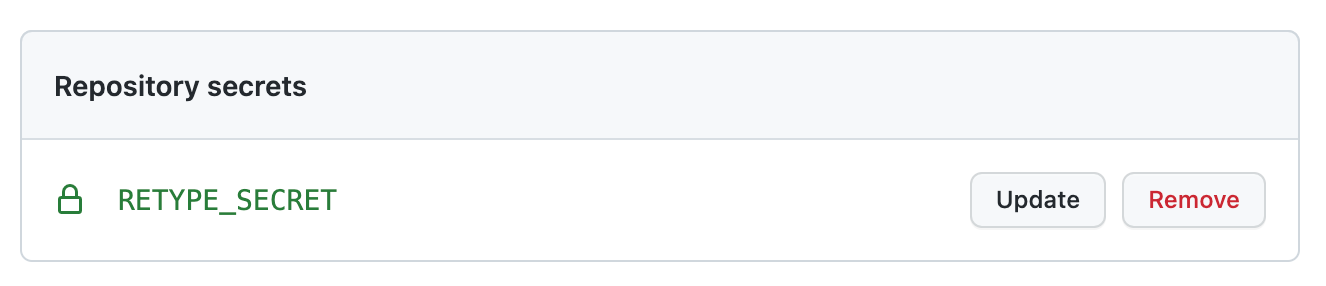
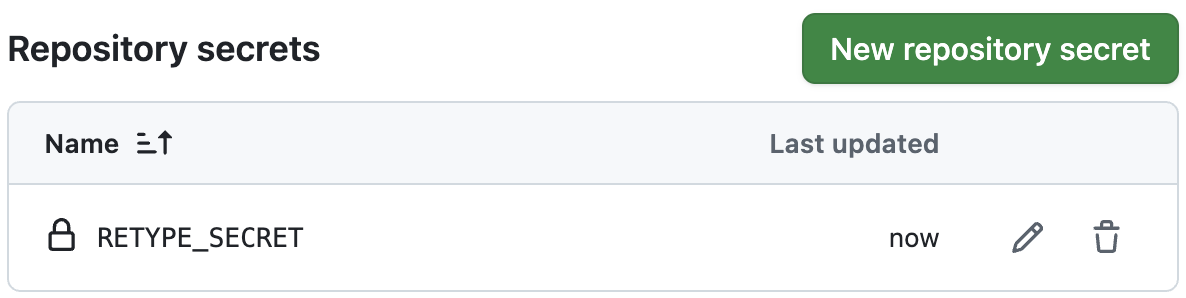
Improved docs for ENV variables
New documentation for RETYPE_PASSWORD and RETYPE_SECRET when passing as an Environment variable.

Changed region(s): [[0.0, 0.2517, 0.9983, 0.9231], [0.0, 0.028, 0.9983, 0.3077], [0.0, 0.951, 0.9983, 0.979]]

diff --git a/guides/github-actions.md b/guides/github-actions.md
@@ -88,17 +88,17 @@ Commit your **retype-action.yml** file and push to your repo.
 
 ### RETYPE_SECRET
 
-If your project requires a Retype License Key, that key can be configured by adding a [`RETYPE_SECRET`](../configuration/envvars.md/#retype_secret) secret to your repository and the corresponding `license: {%{${{ secrets.RETYPE_SECRET }}`}%} configuration to your **.github/workflows/retype-action.yml** file.
+If your project requires a Retype license key, that key can be configured by adding a [`RETYPE_SECRET`](../configuration/envvars.md/#retype_secret) secret to your repository settings and the corresponding `env` configuration to your project **.github/workflows/retype-action.yml** file.
 
 {%{
 ```yml
 - uses: retypeapp/action-build@latest
-  with:
-    license: ${{ secrets.RETYPE_SECRET }}
+  env:
+    RETYPE_SECRET: ${{ secrets.RETYPE_SECRET }}
 ```
 }%}
 
-A standard **.github/workflows/retype-action.yml** file with a Retype license key would look like the following:
+The following demonstrates a basic template to use for a workflow configuration file, if including the license key:
 
 ```yml .github/workflows/retype-action.yml
 name: Publish Retype powered website to GitHub Pages
@@ -125,16 +125,44 @@ jobs:
           dotnet-version: 7.0.x
 
       - uses: retypeapp/action-build@latest
-        with:
-          license: {%{${{ secrets.RETYPE_SECRET }}}%}
+        env:
+          RETYPE_SECRET: {%{${{ secrets.RETYPE_SECRET }}}%}
+          RETYPE_PASSWORD: {%{${{ secrets.RETYPE_PASSWORD }}}%}
 
       - uses: retypeapp/action-github-pages@latest
         with:
           update-branch: true
 ```
 
+### RETYPE_PASSWORD
+
+If your project uses either [`protected`](/configuration/page.md#protected) or [`private`](/configuration/page.md#private) pages, adding a password for your visitors to use is required.
+
+{{ include "snippets/password-notice.md" }}
+
+A password can be configured by adding a [`RETYPE_PASSWORD`](../configuration/envvars.md/#retype_password) secret to your repository settings and the following `env` configuration to your project **.github/workflows/retype-action.yml** file.
+
+{%{
+```yml
+- uses: retypeapp/action-build@latest
+  env:
+    RETYPE_PASSWORD: ${{ secrets.RETYPE_PASSWORD }}
+```
+}%}
+
+If both the `RETYPE_SECRET` and `RETYPE_PASSWORD` are needed, the configuration should be the following:
+
+{%{
+```yml
+- uses: retypeapp/action-build@latest
+  env:
+    RETYPE_SECRET: ${{ secrets.RETYPE_SECRET }}
+    RETYPE_PASSWORD: ${{ secrets.RETYPE_PASSWORD }}
+```
+}%}
+
 ---
 
 ## Step 2: Configure GitHub Pages
 
-Once [Step 1](#step-1-add-retype-actionyml-workflow) is complete, configure your [GitHub Pages](/hosting/github-pages.md) web site hosting.
+Once [Step 1](#step-1-add-retype-actionyml-workflow) is complete, now configure your [GitHub Pages](/hosting/github-pages.md) web site hosting.

diff --git a/configuration/page.md b/configuration/page.md
@@ -729,7 +729,9 @@ Setting `visibility: hidden` on a page is a good way to create a _draft_ or _sec
 
 To create a protected page, add `visibility: protected` and then set the password for the project using the `--password` flag.
 
-The following [sample](/samples/protected.md) demonstrates creating a protected page:
+{{ include "snippets/password-notice.md" }}
+
+The following [sample](/samples/protected.md) (password: test) demonstrates creating a protected page:
 
 ```md
 ---
@@ -759,7 +761,9 @@ visibility: protected
 
 To create a private page, add `visibility: private` and then set the password for the project using the `--password` flag.
 
-The following [sample](/samples/private.md) demonstrates creating a private page:
+{{ include "snippets/password-notice.md" }}
+
+The following [sample](/samples/private.md) (password: test) demonstrates creating a private page:
 
 ```md
 ---
@@ -780,7 +784,7 @@ retype build --password <your-password>
 The project password can also be set as an Environment variable by using [`RETYPE_PASSWORD`](../configuration/envvars.md/#retype_password).
 
 !!!
-For `hidden` and `private` pages, Retype does not give you a link to the page, but it still uses the same naming convention as all other pages. For instance, if your site is hosted at `https://example.com` and the page was called `my-hidden-page.md`, the URL would be `https://example.com/my-hidden-page/`.
+For `hidden` and `private` pages, Retype does not provide a link to the page, but it still uses the same naming convention as all other pages. For instance, if your site is hosted at `https://example.com` and the page was called `my-hidden-page.md`, the URL would be `https://example.com/my-hidden-page/`.
 !!!
 
 An entire folder can be set to `private` by adding an `index.yml` file with the following configuration to the root of the folder. See the [folder](folder.md) docs for additional examples.

diff --git a/configuration/envvars.md b/configuration/envvars.md
@@ -13,11 +13,17 @@ Configuring the `RETYPE_SECRET` secret is the prefered technique for configuring
 
 The [RETYPE_SECRET](../guides/github-actions.md#retype_secret) configuration must also be added to your **.github/workflows/retype.yml** file.
 
-You can add a new repository secret to your GitHub repository following the `/settings/secrets/actions` path. The URL should be:
+You can add a new repository secret to your GitHub repository using the following `/settings/secrets/actions` pattern. Replace the following `<your-organization>` and `<your-project>` with your repository values:
 
 ```
 https://github.com/<your-organization>/<your-project>/settings/secrets/actions
 ```
+
+You should now see the **Respository secrets** section with a green button to add a **New repository secret**, similar to the following:
+
+![](/static/retype-repository-secrets-list.png)
+
+Click the **New repository secret** button to add a new secret, which should look similar to the following:
 
 ![](/static/add-retype-secret.png)
 
@@ -31,8 +37,14 @@ See [configuring](../guides/github-actions.md/#retype_secret) a GitHub Workflow 
 
 ## RETYPE_PASSWORD
 
-Set and environment variable for the [`protected`](page.md/#protected) and [`private`](page.md/#private) pages.
+Set an environment variable for the [`protected`](page.md/#protected) and [`private`](page.md/#private) pages. The `RETYPE_PASSWORD` value is set using exactly the same process as the [`RETYPE_SECRET`](#retype_secret) above. 
+
+If you add both the `RETYPE_PASSWORD` and `RETYPE_SECRET`, your list of **Repository secrets** should look like the following:
+
+![](/static/retype-repository-secrets-list-2.png)
 
 ## RETYPE_DEFAULT_HOST
 
 Default [`host`](project.md/#host) to be used by the Retype server instead of `localhost`.
+
+The `RETYPE_DEFAULT_HOST` secret is set exactly the same as above.

diff --git a/_includes/snippets/password-notice.md b/_includes/snippets/password-notice.md
@@ -1,0 +1,3 @@
+!!!
+Only one password can be configured per project. The password protection functionality within Retype is not designed to be a comprehensive security layer with features such as multiple accounts or roles. Only the most basic password protection for pages is enabled.
+!!!
